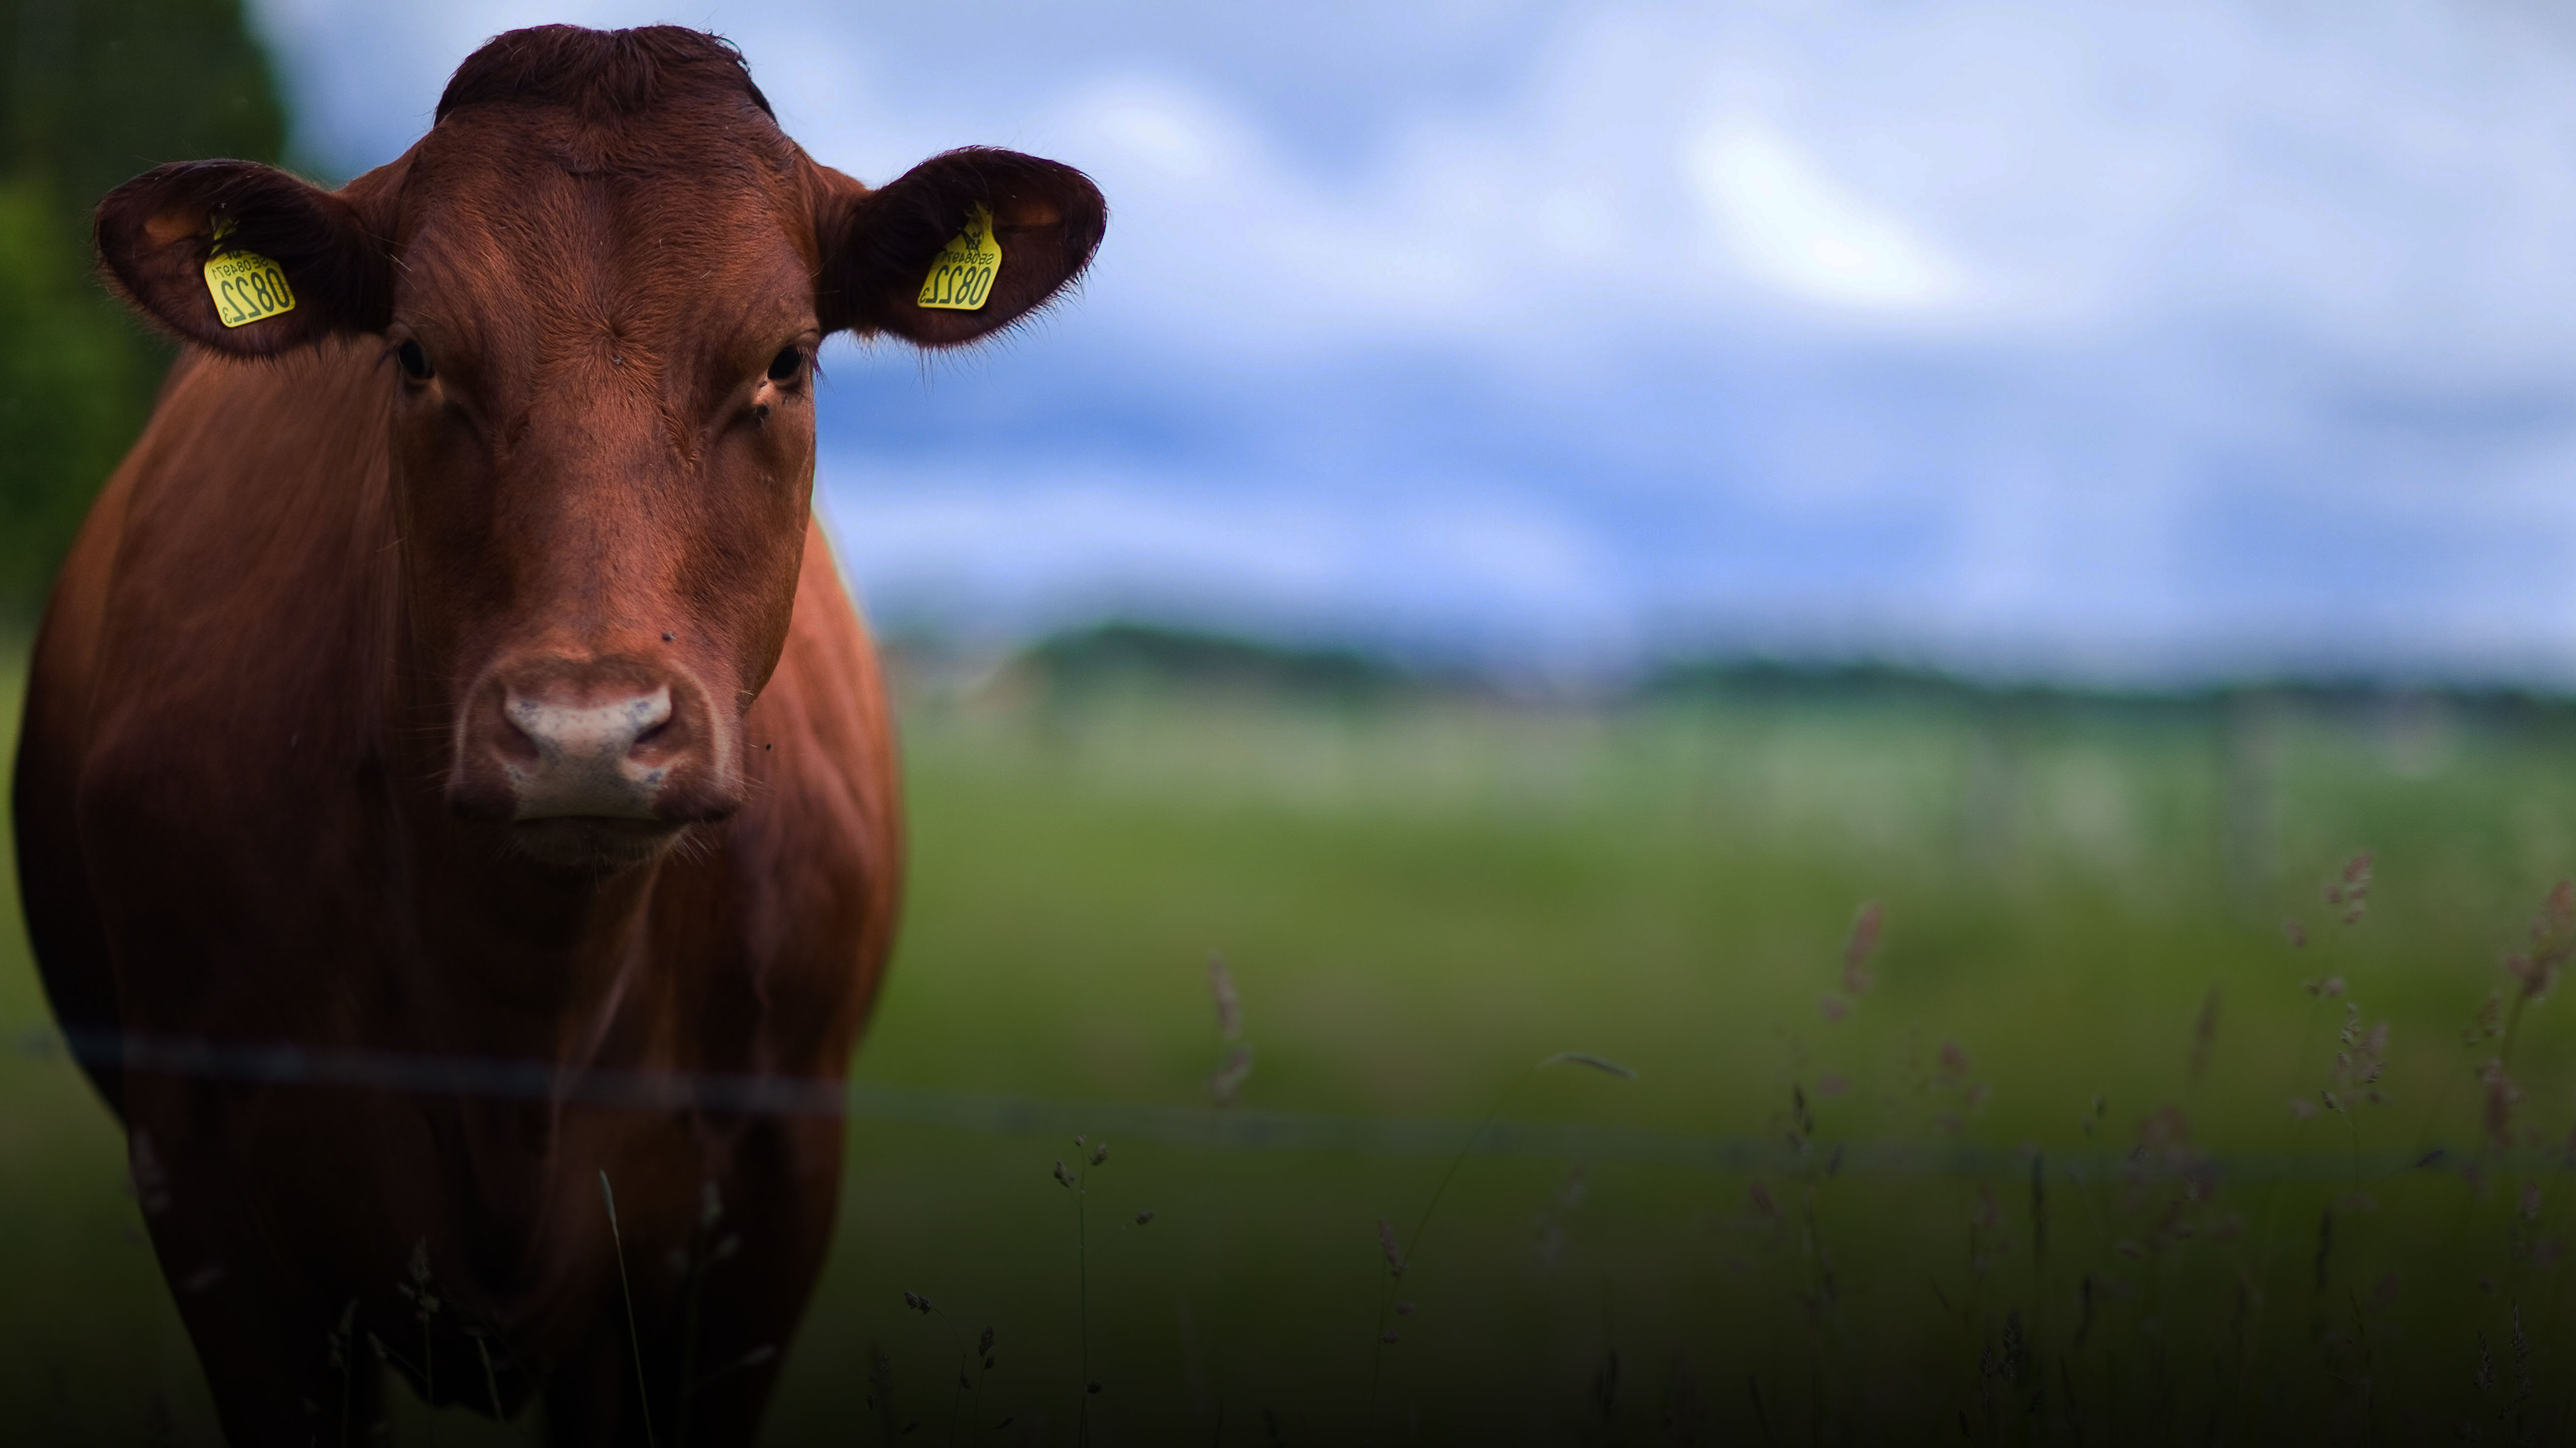
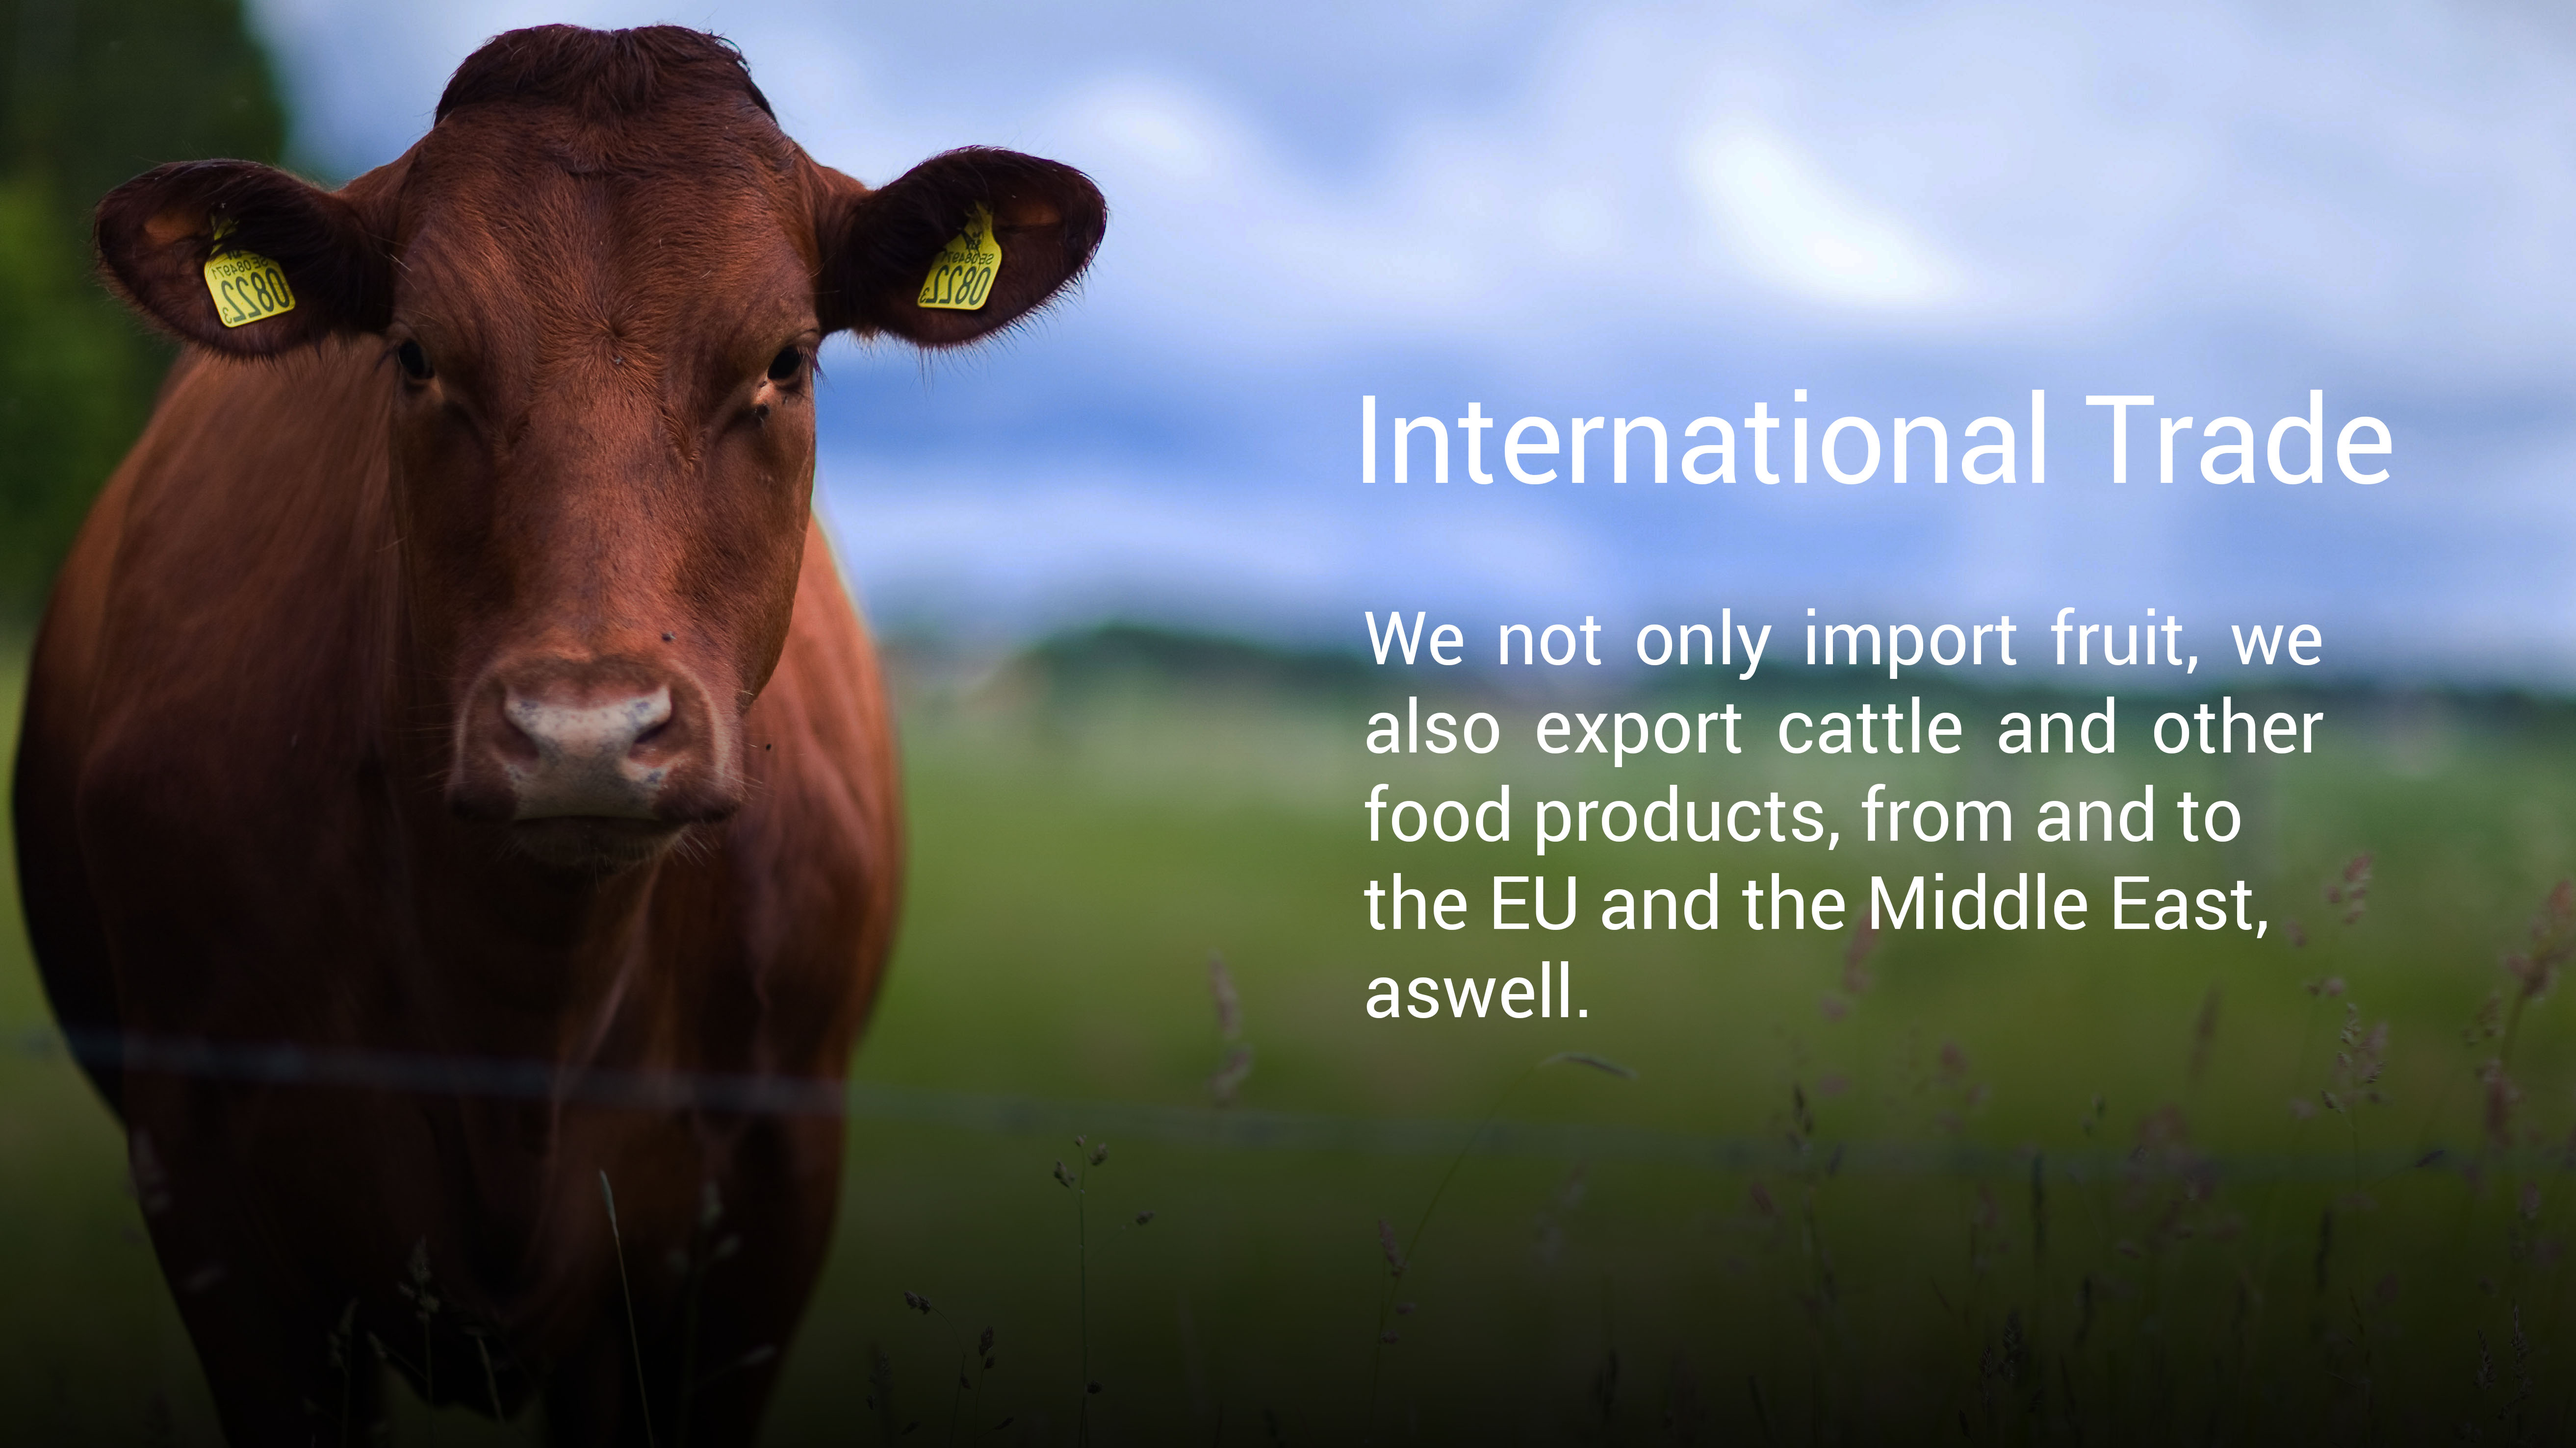
finish

Changed region(s): [[0.5308, 0.4049, 0.9056, 0.7163], [0.5308, 0.2492, 0.9368, 0.3426]]

diff --git a/MangayaTrade.css b/MangayaTrade.css
@@ -523,7 +523,7 @@ h3{
 }
 
 .about-content-div{
-	height:200%;
+	height:230%;
 	width: 100%;
 	background-color: rgba(0,0,0,1);
 	padding-bottom: 10%;
